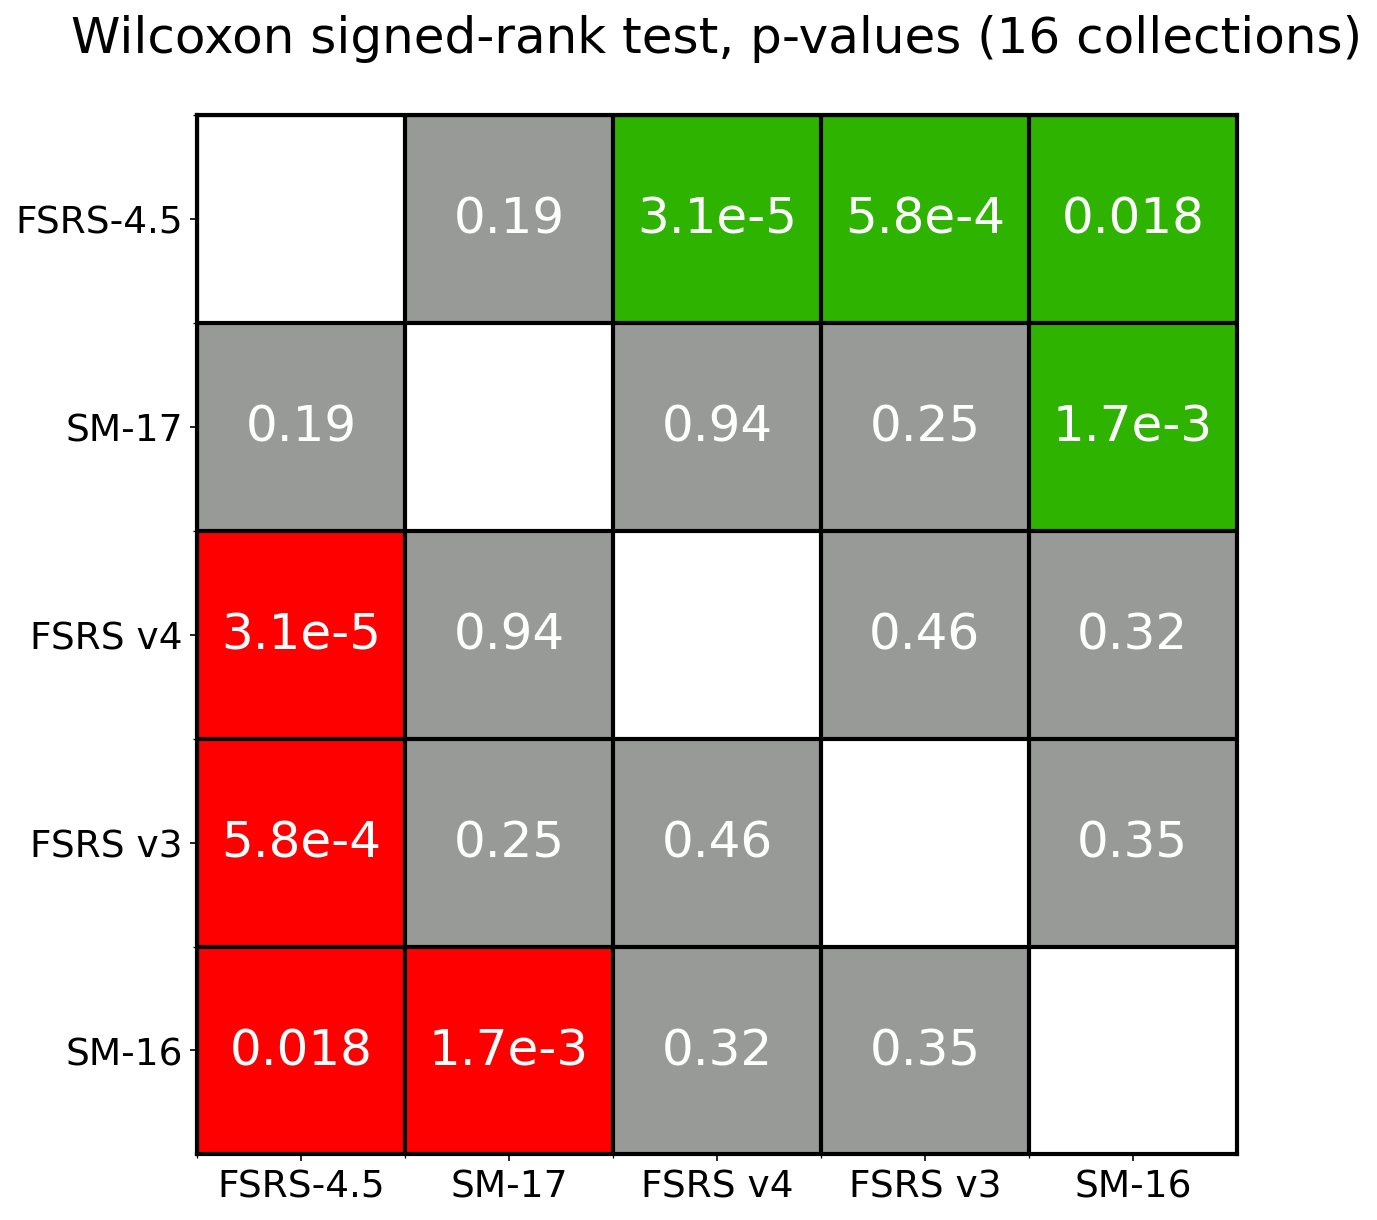
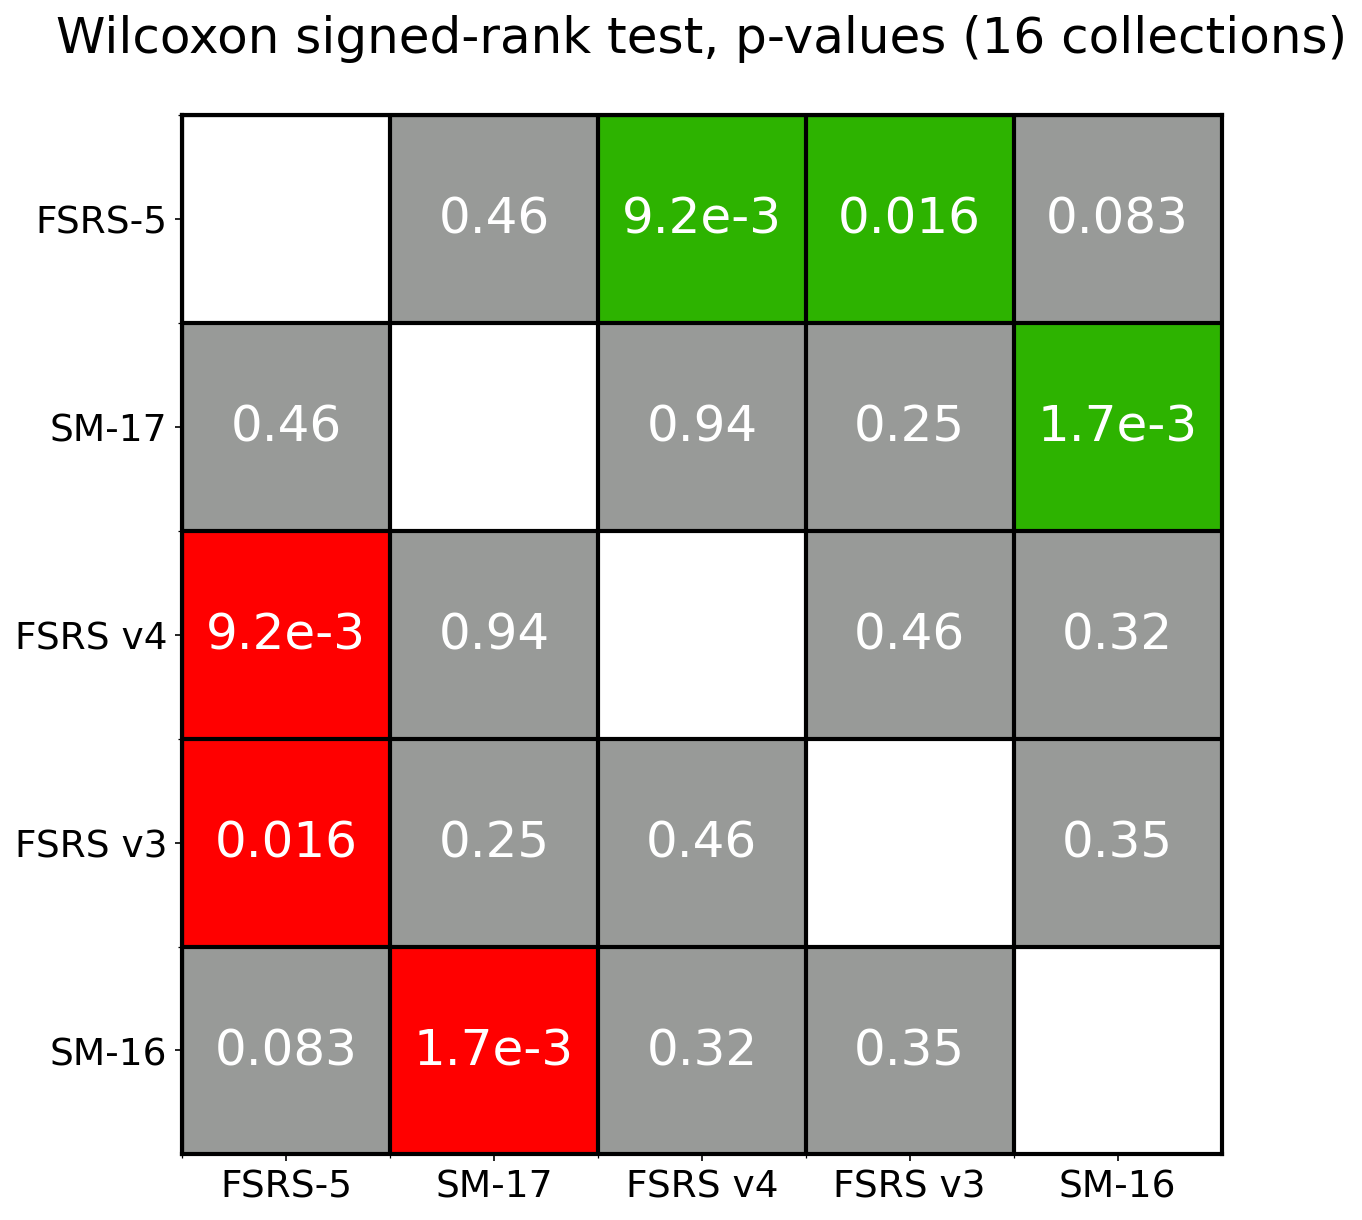
update to FSRS-5

diff --git a/script.py b/script.py
@@ -12,8 +12,8 @@ from fsrs_optimizer import (
     FSRS,
     BatchDataset,
     BatchLoader,
-    WeightClipper,
-    DEFAULT_WEIGHT,
+    ParameterClipper,
+    DEFAULT_PARAMETER,
 )
 from models import FSRS3, FSRS4
 from tqdm.auto import tqdm
@@ -121,7 +121,8 @@ def data_preprocessing(csv_file_path, save_csv=False):
         save["review_date"] = save["review_date"].rank(method="dense").astype("int64")
         save["card_id"] = pd.factorize(save["card_id"])[0]
         save.rename(
-            columns={"review_rating": "rating", "review_date": "review_th"}, inplace=True
+            columns={"review_rating": "rating", "review_date": "review_th"},
+            inplace=True,
         )
         save.to_csv(f"converted/{csv_file_path.stem}.csv", index=False)
     return dataset
@@ -135,13 +136,13 @@ batch_size = 512
 
 
 def FSRS_latest_train(revlogs):
-    model = FSRS(DEFAULT_WEIGHT)
+    model = FSRS(DEFAULT_PARAMETER)
     optimizer = torch.optim.Adam(model.parameters(), lr=lr)
     loss_fn = torch.nn.BCELoss(reduction="none")
 
     dataset = BatchDataset(revlogs, 1, False)
     dataloader = BatchLoader(dataset, shuffle=False)
-    clipper = WeightClipper()
+    clipper = ParameterClipper()
     d = []
     s = []
     r = []
@@ -149,7 +150,7 @@ def FSRS_latest_train(revlogs):
     for i, sample in enumerate(tqdm(dataloader)):
         model.train()
         optimizer.zero_grad()
-        sequence, delta_t, label, seq_len = sample
+        sequence, delta_t, label, seq_len, weights = sample
         output, _ = model(sequence)
         stability, difficulty = output[seq_len - 1, 0].transpose(0, 1)
         d.append(difficulty.detach().numpy()[0])
@@ -171,7 +172,7 @@ def FSRS_latest_train(revlogs):
             for j, batch in enumerate(replay_dataloader):
                 model.train()
                 optimizer.zero_grad()
-                sequences, delta_ts, labels, seq_lens = batch
+                sequences, delta_ts, labels, seq_lens, weights = batch
                 real_batch_size = seq_lens.shape[0]
                 outputs, _ = model(sequences)
                 stabilities = outputs[seq_lens - 1, torch.arange(real_batch_size), 0]
@@ -181,7 +182,7 @@ def FSRS_latest_train(revlogs):
                 optimizer.step()
                 model.apply(clipper)
 
-    revlogs["R (FSRS-4.5)"] = r
+    revlogs["R (FSRS-5)"] = r
 
     return revlogs
 
@@ -200,7 +201,7 @@ def FSRS_old_train(revlogs):
         for i, sample in enumerate(tqdm(dataloader)):
             model.train()
             optimizer.zero_grad()
-            sequence, delta_t, label, seq_len = sample
+            sequence, delta_t, label, seq_len, weights = sample
             output, _ = model(sequence)
             stability, difficulty = output[seq_len - 1, 0].transpose(0, 1)
             d.append(difficulty.detach().numpy()[0])
@@ -221,7 +222,7 @@ def FSRS_old_train(revlogs):
                 for j, batch in enumerate(replay_dataloader):
                     model.train()
                     optimizer.zero_grad()
-                    sequences, delta_ts, labels, seq_lens = batch
+                    sequences, delta_ts, labels, seq_lens, weights = batch
                     real_batch_size = seq_lens.shape[0]
                     outputs, _ = model(sequences)
                     stabilities = outputs[
@@ -240,39 +241,39 @@ def FSRS_old_train(revlogs):
 
 def evaluate(revlogs):
     sm16_rmse = rmse_matrix(
-        revlogs[["card_id", "r_history", "delta_t", "i", "y", "R (SM16)"]].rename(
-            columns={"R (SM16)": "p"}
-        )
+        revlogs[
+            ["card_id", "r_history", "t_history", "delta_t", "i", "y", "R (SM16)"]
+        ].rename(columns={"R (SM16)": "p"})
     )
     sm17_rmse = rmse_matrix(
-        revlogs[["card_id", "r_history", "delta_t", "i", "y", "R (SM17(exp))"]].rename(
-            columns={"R (SM17(exp))": "p"}
-        )
+        revlogs[
+            ["card_id", "r_history", "t_history", "delta_t", "i", "y", "R (SM17(exp))"]
+        ].rename(columns={"R (SM17(exp))": "p"})
     )
-    fsrs_v45_rmse = rmse_matrix(
-        revlogs[["card_id", "r_history", "delta_t", "i", "y", "R (FSRS-4.5)"]].rename(
-            columns={"R (FSRS-4.5)": "p"}
-        )
+    fsrs_v5_rmse = rmse_matrix(
+        revlogs[
+            ["card_id", "r_history", "t_history", "delta_t", "i", "y", "R (FSRS-5)"]
+        ].rename(columns={"R (FSRS-5)": "p"})
     )
     fsrs_v4_rmse = rmse_matrix(
-        revlogs[["card_id", "r_history", "delta_t", "i", "y", "R (FSRSv4)"]].rename(
-            columns={"R (FSRSv4)": "p"}
-        )
+        revlogs[
+            ["card_id", "r_history", "t_history", "delta_t", "i", "y", "R (FSRSv4)"]
+        ].rename(columns={"R (FSRSv4)": "p"})
     )
     fsrs_v3_rmse = rmse_matrix(
-        revlogs[["card_id", "r_history", "delta_t", "i", "y", "R (FSRSv3)"]].rename(
-            columns={"R (FSRSv3)": "p"}
-        )
+        revlogs[
+            ["card_id", "r_history", "t_history", "delta_t", "i", "y", "R (FSRSv3)"]
+        ].rename(columns={"R (FSRSv3)": "p"})
     )
     sm16_logloss = log_loss(revlogs["y"], revlogs["R (SM16)"])
     sm17_logloss = log_loss(revlogs["y"], revlogs["R (SM17(exp))"])
-    fsrs_v45_logloss = log_loss(revlogs["y"], revlogs["R (FSRS-4.5)"])
+    fsrs_v5_logloss = log_loss(revlogs["y"], revlogs["R (FSRS-5)"])
     fsrs_v4_logloss = log_loss(revlogs["y"], revlogs["R (FSRSv4)"])
     fsrs_v3_logloss = log_loss(revlogs["y"], revlogs["R (FSRSv3)"])
     return {
-        "FSRS-4.5": {
-            "RMSE(bins)": fsrs_v45_rmse,
-            "LogLoss": fsrs_v45_logloss,
+        "FSRS-5": {
+            "RMSE(bins)": fsrs_v5_rmse,
+            "LogLoss": fsrs_v5_logloss,
         },
         "FSRSv4": {
             "RMSE(bins)": fsrs_v4_rmse,

diff --git a/evaluate.py b/evaluate.py
@@ -9,8 +9,9 @@ def cohen_d(group1, group2, size):
     # weighted mean
     mean1, mean2 = np.average(group1, weights=size), np.average(group2, weights=size)
     # weighted variance
-    var1, var2 = np.average((group1 - mean1) ** 2, weights=size), np.average(
-        (group2 - mean2) ** 2, weights=size
+    var1, var2 = (
+        np.average((group1 - mean1) ** 2, weights=size),
+        np.average((group2 - mean2) ** 2, weights=size),
     )
 
     d = (mean1 - mean2) / np.sqrt((var1 + var2) / 2)
@@ -73,7 +74,7 @@ def weighted_avg_and_std(values, weights):
 if __name__ == "__main__":
     FSRSv3 = ("FSRSv3", [])
     FSRSv4 = ("FSRSv4", [])
-    FSRSv45 = ("FSRS-4.5", [])
+    FSRS_5 = ("FSRS-5", [])
     SM17 = ("SM17", [])
     SM16 = ("SM16", [])
     sizes = []
@@ -84,7 +85,7 @@ if __name__ == "__main__":
             result = json.load(f)
             FSRSv3[1].append(result["FSRSv3"])
             FSRSv4[1].append(result["FSRSv4"])
-            FSRSv45[1].append(result["FSRS-4.5"])
+            FSRS_5[1].append(result["FSRS-5"])
             SM17[1].append(result["SM17"])
             SM16[1].append(result["SM16"])
             sizes.append(result["size"])
@@ -99,7 +100,7 @@ if __name__ == "__main__":
     ):
         print(f"Scale: {scale}")
         for metric in ("LogLoss", "RMSE(bins)"):
-            for model in (FSRSv45, FSRSv4, FSRSv3, SM17, SM16):
+            for model in (FSRS_5, FSRSv4, FSRSv3, SM17, SM16):
                 metrics = np.array([item[metric] for item in model[1]])
                 wmean, wstd = weighted_avg_and_std(metrics, size)
                 CI = confidence_interval(metrics, size)

diff --git a/significance_table.py b/significance_table.py
@@ -108,7 +108,7 @@ def format(exponent, n):
 
 if __name__ == "__main__":
     models = (
-        "FSRS-4.5",
+        "FSRS-5",
         "SM17",
         "FSRSv4",
         "FSRSv3",
